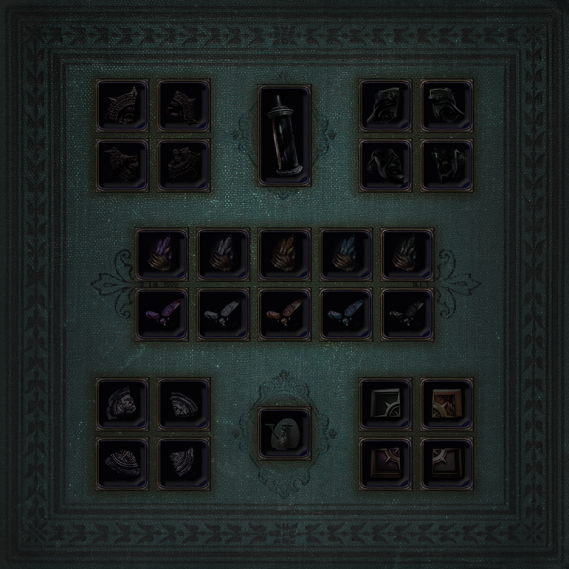
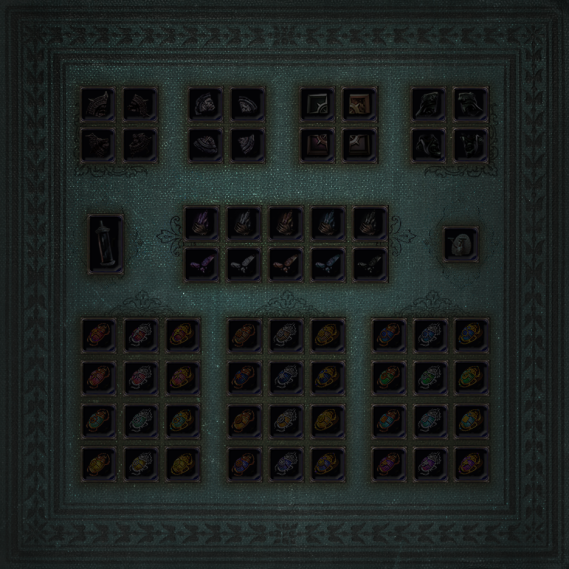
Update fragment stash positions

Changed region(s): [[0.1195, 0.1195, 0.8664, 0.8664]]

diff --git a/Procurement/Controls/FragmentStash.xaml b/Procurement/Controls/FragmentStash.xaml
@@ -9,78 +9,208 @@
              d:DataContext="{d:DesignInstance local:FragmentStashViewModel}">
     <UserControl.Resources>
         <Style x:Key="SingleCellItemStyle" TargetType="local:ItemDisplay">
-            <Setter Property="Width" Value="40" />
-            <Setter Property="Height" Value="40" />
+            <Setter Property="Width" Value="34" />
+            <Setter Property="Height" Value="34" />
         </Style>
     </UserControl.Resources>
     <Border x:Name="Border" BorderThickness="3" CornerRadius="2" BorderBrush="Aquamarine">
+        <Border.Background>
+            <ImageBrush ImageSource="/Images/fragmentTab.png" />
+        </Border.Background>
         <Canvas>
-            <Canvas.Background>
-                <ImageBrush ImageSource="/Images/fragmentTab.png" />
-            </Canvas.Background>
+            <Grid Height="80" Width="80" Canvas.Left="82" Canvas.Top="89">
+                <Grid.ColumnDefinitions>
+                    <ColumnDefinition Width="37*" />
+                    <ColumnDefinition Width="7*" />
+                    <ColumnDefinition Width="37*" />
+                </Grid.ColumnDefinitions>
+                <Grid.RowDefinitions>
+                    <RowDefinition Height="36*" />
+                    <RowDefinition Height="5*" />
+                    <RowDefinition Height="38*" />
+                </Grid.RowDefinitions>
 
-            <local:ItemDisplay Style="{StaticResource SingleCellItemStyle}" Canvas.Left="106" Canvas.Top="90"
-                               DataContext="{Binding Dusk}" />
-            <local:ItemDisplay Style="{StaticResource SingleCellItemStyle}" Canvas.Left="168" Canvas.Top="151"
-                               DataContext="{Binding Dawn}" />
-            <local:ItemDisplay Style="{StaticResource SingleCellItemStyle}" Canvas.Left="104" Canvas.Top="151"
-                               DataContext="{Binding Noon}" />
-            <local:ItemDisplay Style="{StaticResource SingleCellItemStyle}" Canvas.Left="168" Canvas.Top="91"
-                               DataContext="{Binding Midnight}" />
+                <local:ItemDisplay Style="{StaticResource SingleCellItemStyle}"
+                                   DataContext="{Binding Dusk}" />
+                <local:ItemDisplay Style="{StaticResource SingleCellItemStyle}"
+                                   DataContext="{Binding Dawn}" Grid.Column="2" Grid.Row="2" />
+                <local:ItemDisplay Style="{StaticResource SingleCellItemStyle}"
+                                   DataContext="{Binding Noon}" Grid.Row="2" Grid.Column="0" />
+                <local:ItemDisplay Grid.Row="0" Style="{StaticResource SingleCellItemStyle}"
+                                   DataContext="{Binding Midnight}" Grid.Column="2" />
+            </Grid>
 
-            <local:ItemDisplay Style="{StaticResource SingleCellItemStyle}" Canvas.Left="379" Canvas.Top="86"
-                               DataContext="{Binding Grief}" />
-            <local:ItemDisplay Style="{StaticResource SingleCellItemStyle}" Canvas.Left="441" Canvas.Top="86"
-                               DataContext="{Binding Rage}" />
-            <local:ItemDisplay Style="{StaticResource SingleCellItemStyle}" Canvas.Left="379" Canvas.Top="151"
-                               DataContext="{Binding Ignorance}" />
-            <local:ItemDisplay Style="{StaticResource SingleCellItemStyle}" Canvas.Left="441" Canvas.Top="151"
-                               DataContext="{Binding Hope}" />
-            <local:ItemDisplay Style="{StaticResource SingleCellItemStyle}" Canvas.Left="275" Canvas.Top="91"
-                               DataContext="{Binding DivineVessel}" Height="94" />
+            <Grid Height="80" Width="80" Canvas.Left="194" Canvas.Top="89">
+                <Grid.ColumnDefinitions>
+                    <ColumnDefinition Width="37*" />
+                    <ColumnDefinition Width="7*" />
+                    <ColumnDefinition Width="37*" />
+                </Grid.ColumnDefinitions>
+                <Grid.RowDefinitions>
+                    <RowDefinition Height="36*" />
+                    <RowDefinition Height="5*" />
+                    <RowDefinition Height="38*" />
+                </Grid.RowDefinitions>
 
-            <local:ItemDisplay Style="{StaticResource SingleCellItemStyle}" Canvas.Left="104" Canvas.Top="400"
-                               DataContext="{Binding Volkuur}" />
-            <local:ItemDisplay Style="{StaticResource SingleCellItemStyle}" Canvas.Left="168" Canvas.Top="400"
-                               DataContext="{Binding Eber}" />
-            <local:ItemDisplay Style="{StaticResource SingleCellItemStyle}" Canvas.Left="104" Canvas.Top="463"
-                               DataContext="{Binding Inya}" />
-            <local:ItemDisplay Style="{StaticResource SingleCellItemStyle}" Canvas.Left="168" Canvas.Top="463"
-                               DataContext="{Binding Yriel}" />
+                <local:ItemDisplay Style="{StaticResource SingleCellItemStyle}"
+                                   DataContext="{Binding Volkuur}" />
+                <local:ItemDisplay Style="{StaticResource SingleCellItemStyle}"
+                                   DataContext="{Binding Eber}" Grid.Column="2" />
+                <local:ItemDisplay Style="{StaticResource SingleCellItemStyle}"
+                                   DataContext="{Binding Inya}" Grid.Row="2" />
+                <local:ItemDisplay Style="{StaticResource SingleCellItemStyle}"
+                                   DataContext="{Binding Yriel}" Grid.Column="2" Grid.Row="2" />
 
-            <local:ItemDisplay Style="{StaticResource SingleCellItemStyle}" Canvas.Left="381" Canvas.Top="400"
-                               DataContext="{Binding Hydra}" />
-            <local:ItemDisplay Style="{StaticResource SingleCellItemStyle}" Canvas.Left="444" Canvas.Top="400"
-                               DataContext="{Binding Phoenix}" />
-            <local:ItemDisplay Style="{StaticResource SingleCellItemStyle}" Canvas.Left="381" Canvas.Top="461"
-                               DataContext="{Binding Minotaur}" />
-            <local:ItemDisplay Style="{StaticResource SingleCellItemStyle}" Canvas.Left="444" Canvas.Top="461"
-                               DataContext="{Binding Chimera}" />
 
-            <local:ItemDisplay Style="{StaticResource SingleCellItemStyle}" Canvas.Left="148" Canvas.Top="307"
-                               DataContext="{Binding ChayulaSplinter}" />
-            <local:ItemDisplay Style="{StaticResource SingleCellItemStyle}" Canvas.Left="212" Canvas.Top="307"
-                               DataContext="{Binding TulSplinter}" />
-            <local:ItemDisplay Style="{StaticResource SingleCellItemStyle}" Canvas.Left="276" Canvas.Top="307"
-                               DataContext="{Binding XophSplinter}" />
-            <local:ItemDisplay Style="{StaticResource SingleCellItemStyle}" Canvas.Left="340" Canvas.Top="307"
-                               DataContext="{Binding EshSplinter}" />
-            <local:ItemDisplay Style="{StaticResource SingleCellItemStyle}" Canvas.Left="403" Canvas.Top="307"
-                               DataContext="{Binding UulNetolSplinter}" />
+            </Grid>
+            <Grid Height="80" Width="80" Canvas.Left="308" Canvas.Top="89">
+                <Grid.ColumnDefinitions>
+                    <ColumnDefinition Width="37*" />
+                    <ColumnDefinition Width="7*" />
+                    <ColumnDefinition Width="37*" />
+                </Grid.ColumnDefinitions>
+                <Grid.RowDefinitions>
+                    <RowDefinition Height="36*" />
+                    <RowDefinition Height="5*" />
+                    <RowDefinition Height="38*" />
+                </Grid.RowDefinitions>
 
-            <local:ItemDisplay Style="{StaticResource SingleCellItemStyle}" Canvas.Left="149" Canvas.Top="243"
-                               DataContext="{Binding ChayulaBlessing}" />
-            <local:ItemDisplay Style="{StaticResource SingleCellItemStyle}" Canvas.Left="211" Canvas.Top="243"
-                               DataContext="{Binding TulBlessing}" />
-            <local:ItemDisplay Style="{StaticResource SingleCellItemStyle}" Canvas.Left="275" Canvas.Top="243"
-                               DataContext="{Binding XophBlessing}" />
-            <local:ItemDisplay Style="{StaticResource SingleCellItemStyle}" Canvas.Left="339" Canvas.Top="243"
-                               DataContext="{Binding EshBlessing}" />
-            <local:ItemDisplay Style="{StaticResource SingleCellItemStyle}" Canvas.Left="402" Canvas.Top="243"
-                               DataContext="{Binding UulNetolBlessing}" />
+                <local:ItemDisplay Style="{StaticResource SingleCellItemStyle}"
+                                   DataContext="{Binding Hydra}" />
+                <local:ItemDisplay Style="{StaticResource SingleCellItemStyle}"
+                                   DataContext="{Binding Phoenix}" Grid.Column="2" />
+                <local:ItemDisplay Style="{StaticResource SingleCellItemStyle}"
+                                   DataContext="{Binding Chimera}" Grid.Column="0" Grid.Row="2" />
+                <local:ItemDisplay Style="{StaticResource SingleCellItemStyle}"
+                                   DataContext="{Binding Minotaur}" Grid.Row="2" Grid.Column="2" />
 
-            <local:ItemDisplay Style="{StaticResource SingleCellItemStyle}" Canvas.Left="275" Canvas.Top="430"
+            </Grid>
+            <Grid Height="80" Width="80" Canvas.Left="422" Canvas.Top="89">
+                <Grid.ColumnDefinitions>
+                    <ColumnDefinition Width="37*" />
+                    <ColumnDefinition Width="7*" />
+                    <ColumnDefinition Width="37*" />
+                </Grid.ColumnDefinitions>
+                <Grid.RowDefinitions>
+                    <RowDefinition Height="36*" />
+                    <RowDefinition Height="5*" />
+                    <RowDefinition Height="38*" />
+                </Grid.RowDefinitions>
+
+                <local:ItemDisplay Style="{StaticResource SingleCellItemStyle}"
+                                   DataContext="{Binding Grief}" />
+                <local:ItemDisplay Style="{StaticResource SingleCellItemStyle}"
+                                   DataContext="{Binding Rage}" Grid.Column="2" />
+                <local:ItemDisplay Style="{StaticResource SingleCellItemStyle}"
+                                   DataContext="{Binding Ignorance}" Grid.Row="2" />
+                <local:ItemDisplay Style="{StaticResource SingleCellItemStyle}"
+                                   DataContext="{Binding Hope}" Grid.Column="2" Grid.Row="2" />
+            </Grid>
+
+            <local:ItemDisplay Style="{StaticResource SingleCellItemStyle}" Canvas.Left="91" Canvas.Top="222"
+                               DataContext="{Binding DivineVessel}" Height="56" Width="33" />
+
+            <Grid Height="80" Width="209" Canvas.Left="189" Canvas.Top="212">
+                <Grid.ColumnDefinitions>
+                    <ColumnDefinition Width="37*" />
+                    <ColumnDefinition Width="7*" />
+                    <ColumnDefinition Width="35*" />
+                    <ColumnDefinition Width="8*" />
+                    <ColumnDefinition Width="37*" />
+                    <ColumnDefinition Width="7*" />
+                    <ColumnDefinition Width="36*" />
+                    <ColumnDefinition Width="6*" />
+                    <ColumnDefinition Width="36*" />
+                </Grid.ColumnDefinitions>
+                <Grid.RowDefinitions>
+                    <RowDefinition Height="36*" />
+                    <RowDefinition Height="5*" />
+                    <RowDefinition Height="38*" />
+                </Grid.RowDefinitions>
+
+                <local:ItemDisplay Style="{StaticResource SingleCellItemStyle}"
+                                   DataContext="{Binding ChayulaBlessing}" />
+                <local:ItemDisplay Style="{StaticResource SingleCellItemStyle}"
+                                   DataContext="{Binding TulBlessing}" Grid.Column="2" />
+                <local:ItemDisplay Style="{StaticResource SingleCellItemStyle}"
+                                   DataContext="{Binding XophBlessing}" Grid.Column="4" />
+                <local:ItemDisplay Style="{StaticResource SingleCellItemStyle}"
+                                   DataContext="{Binding EshBlessing}" Grid.Column="6" />
+                <local:ItemDisplay Style="{StaticResource SingleCellItemStyle}"
+                                   DataContext="{Binding UulNetolBlessing}" Grid.Column="8" />
+
+                <local:ItemDisplay Style="{StaticResource SingleCellItemStyle}"
+                                   DataContext="{Binding ChayulaSplinter}" Grid.Row="2" />
+                <local:ItemDisplay Style="{StaticResource SingleCellItemStyle}" Grid.Row="2" Grid.Column="2"
+                                   DataContext="{Binding TulSplinter}" />
+                <local:ItemDisplay Style="{StaticResource SingleCellItemStyle}" Grid.Row="2" Grid.Column="4"
+                                   DataContext="{Binding XophSplinter}" />
+                <local:ItemDisplay Style="{StaticResource SingleCellItemStyle}" Grid.Row="2" Grid.Column="6"
+                                   DataContext="{Binding EshSplinter}" />
+                <local:ItemDisplay Style="{StaticResource SingleCellItemStyle}" Grid.Row="2" Grid.Column="8"
+                                   DataContext="{Binding UulNetolSplinter}" />
+
+            </Grid>
+
+            <local:ItemDisplay Style="{StaticResource SingleCellItemStyle}" Canvas.Left="456" Canvas.Top="233"
                                DataContext="{Binding Offering}" />
+
+            <Grid Height="171" Width="122" Canvas.Left="84" Canvas.Top="327">
+                <Grid.ColumnDefinitions>
+                    <ColumnDefinition Width="36*" />
+                    <ColumnDefinition Width="7*" />
+                    <ColumnDefinition Width="36*" />
+                    <ColumnDefinition Width="6*" />
+                    <ColumnDefinition Width="37*" />
+                </Grid.ColumnDefinitions>
+                <Grid.RowDefinitions>
+                    <RowDefinition Height="37*" />
+                    <RowDefinition Height="6*" />
+                    <RowDefinition Height="37*" />
+                    <RowDefinition Height="7*" />
+                    <RowDefinition Height="39*" />
+                    <RowDefinition Height="6*" />
+                    <RowDefinition Height="39*" />
+                </Grid.RowDefinitions>
+            </Grid>
+            <Grid Height="172" Width="122" Canvas.Left="234" Canvas.Top="327">
+                <Grid.ColumnDefinitions>
+                    <ColumnDefinition Width="36*" />
+                    <ColumnDefinition Width="7*" />
+                    <ColumnDefinition Width="36*" />
+                    <ColumnDefinition Width="6*" />
+                    <ColumnDefinition Width="37*" />
+                </Grid.ColumnDefinitions>
+                <Grid.RowDefinitions>
+                    <RowDefinition Height="37*" />
+                    <RowDefinition Height="6*" />
+                    <RowDefinition Height="37*" />
+                    <RowDefinition Height="7*" />
+                    <RowDefinition Height="39*" />
+                    <RowDefinition Height="6*" />
+                    <RowDefinition Height="39*" />
+                </Grid.RowDefinitions>
+            </Grid>
+            <Grid Height="171" Width="122" Canvas.Left="382" Canvas.Top="327">
+                <Grid.ColumnDefinitions>
+                    <ColumnDefinition Width="36*" />
+                    <ColumnDefinition Width="7*" />
+                    <ColumnDefinition Width="36*" />
+                    <ColumnDefinition Width="6*" />
+                    <ColumnDefinition Width="37*" />
+                </Grid.ColumnDefinitions>
+                <Grid.RowDefinitions>
+                    <RowDefinition Height="37*" />
+                    <RowDefinition Height="6*" />
+                    <RowDefinition Height="37*" />
+                    <RowDefinition Height="7*" />
+                    <RowDefinition Height="39*" />
+                    <RowDefinition Height="6*" />
+                    <RowDefinition Height="39*" />
+                </Grid.RowDefinitions>
+            </Grid>
+
+
         </Canvas>
     </Border>
 </UserControl>
